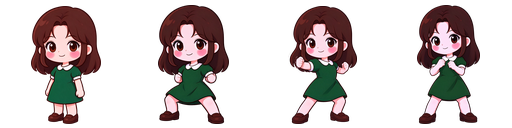
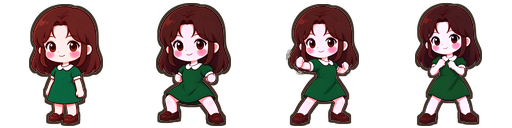
暗黑传奇：3D 主城手感修复 + 主角/房屋/树/摊位换成同一套 2.5D 立牌
玩法与手感（game.js / render-three.js）
- 走路插值：逻辑仍是 70ms 跳一格，画面按 τ≈22ms 追过去；换房/传送超过 3 格直接落位
  （以前是逐格瞬移，配合脚下阴影看起来像拖影）
- 摇杆：换扇区只更新方向，不再额外补走一步、也不再重置节拍
  （实测「鼠标在扇区边界抖 40 次」旧代码走了 40 格，修后 8 格）
- 摇杆/键盘长按的步频统一到 WALK_STEP_MS(70ms)，和点地寻路一致（原来 180ms，慢 2.5 倍）
- 挂机：3D 主城其实是 128×128 野外图（currentRoom 一直 null），原来按钮 disabled + autoStep 直接
  返回，城里一圈野怪永远不打。新增 canFarmHere() = currentRoom || useOverworld()，三处统一
- 立牌接触阴影：主角剪影阴影缩到 0.55、透明度 0.6→0.3

美术（assets/iso/processed）
- 树换成线稿赛璐璐版 tree-v3；房子 shop-v3；摊位 stall-v3（都是豆包出图 + 洋红抠底）
- 统一比例尺（世界单位，豆豆 2.34 当尺）：树 11.7（单棵 ≈5 人）、边界树墙 4.6（树冠会把入口埋掉）、
  房子 4.8、摊位 3.0
- 边界树在门口 2 格内不再生成，避免一进房间角色被树冠整个盖住
- 主角攻击图集加 2px 深棕描边 + 对比/饱和微调

验证：test-game 388、test-three 515、check-assets fail=0、真浏览器 test-input 6 项全过；
无头 Chrome 实拍主城/野外/攻击四帧，尺寸与遮挡逐张确认。

diff --git a/games/darklegend/game.js b/games/darklegend/game.js
@@ -2392,14 +2392,14 @@
     el.btnFarm.classList.toggle('on', !!autoFarm);
     el.btnFarm.setAttribute('aria-pressed', autoFarm ? 'true' : 'false');
     el.btnFarm.innerHTML = `${autoFarm ? '挂·开' : '挂机'}<kbd>E</kbd>`;
-    el.btnFarm.disabled = !currentRoom || over;
-    el.btnFarm.title = !currentRoom
+    el.btnFarm.disabled = !canFarmHere() || over;
+    el.btnFarm.title = !canFarmHere()
       ? '进房间后才能挂机'
       : (autoFarm ? '挂机中：再点关闭' : '挂机：自动打普通/精英');
   }
 
   function setAutoFarm(on) {
-    const next = !!on && !!currentRoom && !over;
+    const next = !!on && canFarmHere() && !over;
     if (autoFarm === next) { syncFarmBtn(); return autoFarm; }
     autoFarm = next;
     killFromFarm = false;
@@ -2415,9 +2415,15 @@
   }
 
   function toggleFarm() {
-    if (!currentRoom) { log('主城不能挂机，先进传送门。', 'bad'); return; }
+    if (!canFarmHere()) { log('主城不能挂机，先进传送门。', 'bad'); return; }
     if (over) return;
     setAutoFarm(!autoFarm);
+  }
+
+  // 3D 模式下主城就是那张 128×128 野外图（currentRoom 一直是 null），
+  // 但城里周围有野怪，挂机必须能用；2D 的老主城（无野怪）仍然禁掉。
+  function canFarmHere() {
+    return !!currentRoom || useOverworld();
   }
 
   function bagBestRarityKey(bag) {
@@ -2796,7 +2802,7 @@
 
   // 时间驱动：挂机关也要贴身普攻 + 有怪时警戒（怪才能追/打）；挂机另加寻路捡袋
   function autoStep() {
-    if (!currentRoom || over || uiOpen() || walkTimer) return false;
+    if (!canFarmHere() || over || uiOpen() || walkTimer) return false;
     // 摇杆/方向键正在走：位移已由 stick 的 after(move) 推进（含怪追击）；
     // 这里若再插警戒 after(combat)，会被走路的 180ms 时钟带着狂结算 DoT/CD
     if ((stickDx || stickDy) || heldMove.size) return false;
@@ -3402,7 +3408,7 @@
         const [mx, my] = heldMoveDelta();
         if (!mx && !my) { stopKeyMove(); return; }
         if (!move(mx, my)) stopKeyMove();   // 撞墙/被锁：停下，松手再按
-      }, MOVE_MS);
+      }, WALK_STEP_MS);                     // 和点地走路同速，别一个 70 一个 180
     }
     syncDpadActive();
   }
@@ -3417,7 +3423,6 @@
   }
 
   function setStickDir(dx, dy) {
-    const changed = dx !== stickDx || dy !== stickDy;
     const wasOn = !!(stickDx || stickDy);
     stickDx = dx;
     stickDy = dy;
@@ -3425,22 +3430,23 @@
       stopStickRepeat();
       return;
     }
-    if (!wasOn || changed) {
-      stopStickRepeat();
+    // 已经有一拍在跑：换扇区只更新方向，等下一拍生效。
+    // 以前每次换向都补走一步 + 重置定时器，鼠标贴着扇区边界抖一下就能白走好几格。
+    if (wasOn && stickTimer) return;
+    stopStickRepeat();
+    if (!uiOpen() && !over) {
+      stopWalk();
+      move(dx, dy);
+    }
+    const tick = () => {
+      if (!(stickDx || stickDy)) { stickTimer = null; return; }
       if (!uiOpen() && !over) {
         stopWalk();
-        move(dx, dy);
+        move(stickDx, stickDy);
       }
-      const tick = () => {
-        if (!(stickDx || stickDy)) { stickTimer = null; return; }
-        if (!uiOpen() && !over) {
-          stopWalk();
-          move(stickDx, stickDy);
-        }
-        stickTimer = setTimeout(tick, MOVE_MS);
-      };
-      stickTimer = setTimeout(tick, MOVE_MS);
-    }
+      stickTimer = setTimeout(tick, WALK_STEP_MS);
+    };
+    stickTimer = setTimeout(tick, WALK_STEP_MS);
   }
 
   // 屏幕向量 → 八向（含死区）
@@ -4297,6 +4303,8 @@
     const borderTree = theme === 'field' ? [0, 1, 2, 8, 9] : theme === 'cave' ? [6, 7, 6, 7] : [3, 8, 3, 8];
     const borderAdd = (x, y) => {
       if (rnd() < 0.22) return;
+      // 门口两格内不种树：3D 边界树很高，树冠会把刚进门的角色整个盖住
+      if ((doors || []).some((d) => Math.max(Math.abs(d.x - x), Math.abs(d.y - y)) <= 2)) return;
       const idx = borderTree[Math.floor(rnd() * borderTree.length)];
       const s = 0.85 + rnd() * 0.45;
       add('flora', idx, x, y, {

diff --git a/games/darklegend/render-three.js b/games/darklegend/render-three.js
@@ -292,7 +292,8 @@
     const sh = mesh.userData.shadowMesh;
     if (!sh) return;
     sh.position.set(mesh.position.x, 0.02, mesh.position.z);
-    sh.scale.copy(mesh.scale);
+    const k = mesh.userData.shadowK || 1;   // 主角的剪影阴影收一点，不然走路像拖影
+    sh.scale.set(mesh.scale.x * k, mesh.scale.y * k, 1);
     sh.visible = mesh.visible !== false && mesh.scale.x > 0.08;
   }
 
@@ -352,11 +353,11 @@
     if (isoStarted) return;
     isoStarted = true;
     const files = {
-      shop: 'assets/iso/processed/shop-v2.png?v=2',
-      tree: 'assets/iso/processed/tree-v2.png?v=2',
+      shop: 'assets/iso/processed/shop-v3.png?v=1',
+      tree: 'assets/iso/processed/tree-v3.png?v=1',
       hero: 'assets/iso/processed/hero-dou.png?v=1',
       heroAtk: 'assets/iso/processed/dou-atk.png?v=1',
-      stall: 'assets/iso/processed/stall-v2.png?v=2',
+      stall: 'assets/iso/processed/stall-v3.png?v=1',
       npc: 'assets/iso/processed/npc-v2.png?v=2',
       chicken: 'assets/iso/processed/chicken-v2.png?v=2',
     };
@@ -593,6 +594,12 @@
     return billboard(isoTexture(img), height * aspect, height, order);
   }
 
+  // 立牌身高（世界单位），一把尺子量到底：豆豆 2.34 ≈ 1 个人
+  const TREE_H = 11.7;   // ≈5 人（豆豆 2.34）：单棵树的量级
+  const BORDER_TREE_H = 4.6;  // 边界那圈是同一张图排成墙，按 5 倍会变成绿色天花板、把入口埋掉
+  const HOUSE_H = 4.8;   // ≈2 人，门洞才不会像狗屋
+  const STALL_H = 3.0;   // ≈1.3 人，摊子比人高半头
+
   function addProp(p) {
     const town = p.sheet === 'town';
     const idx = p.index || 0;
@@ -602,11 +609,14 @@
     if (!town && isoImg.tree) {
       img = isoImg.tree;
       w = 3.2;
-      h = 3.6;
+      // 站在墙上（地图外圈）的是边界树墙：矮一档，不然树冠会把可玩区域和入口全盖住
+      const m0 = B && B.map && B.map();
+      const onWall = !!(m0 && m0[p.y] && m0[p.y][p.x] === 1);
+      h = onWall ? BORDER_TREE_H : TREE_H;
     } else if (town && (idx === 0 || idx === 1) && isoImg.stall) {
       img = isoImg.stall;
       w = 2.6;
-      h = 2.3;
+      h = STALL_H;
     }
     if (!img) return;
     const m = isoBoard(img, h, 1);
@@ -775,8 +785,8 @@
   }
 
   function addHouse(x, z) {
-    const m = isoBoard(isoImg.shop, 3.6, 1);
-    m.position.set(x, 3.6 / 2, z);
+    const m = isoBoard(isoImg.shop, HOUSE_H, 1);
+    m.position.set(x, HOUSE_H / 2, z);
     // 占地朝相机最下一行：相机在 +Z，脚底取更靠前的 z。
     m.userData.frontPad = 0.9;
     own(m);
@@ -900,6 +910,11 @@
       hero.userData.foot = hero.position.y;
       scene.add(hero);
       attachShadow(hero);
+      // 主角的剪影阴影：缩短 + 压淡（0.6 的整幅剪影跟在脚后像残影）
+      if (hero.userData.shadowMesh) {
+        hero.userData.shadowK = 0.55;
+        hero.userData.shadowMesh.material.opacity = 0.3;
+      }
     }
     spritesReady = true;
   }
@@ -1035,8 +1050,18 @@
 
     // 主角位置/朝向
     if (hero) {
-      hero.position.x = P.x + 0.5;
-      hero.position.z = P.y + 0.5;
+      // 走路插值：逻辑是 70ms 跳一格，画面追过去；瞬移（换房/传送）超过 3 格就直接落位
+      const tx = P.x + 0.5, tz = P.y + 0.5;
+      const dt = Math.max(4, Math.min(64, now - (hero.userData.lastT || now - 16)));
+      hero.userData.lastT = now;
+      if (Math.abs(tx - hero.position.x) > 3 || Math.abs(tz - hero.position.z) > 3) {
+        hero.position.x = tx;
+        hero.position.z = tz;
+      } else {
+        const a = 1 - Math.exp(-dt / 22);
+        hero.position.x += (tx - hero.position.x) * a;
+        hero.position.z += (tz - hero.position.z) * a;
+      }
       const moving = B.walking && B.walking();
       const strike = now - (B.strikeAt ? B.strikeAt() : 0) < 260;
       const bob = moving ? Math.sin(now / 1000 * 8) * (2 / 48) : Math.sin(now / 1000 * 2) * (1 / 48);
